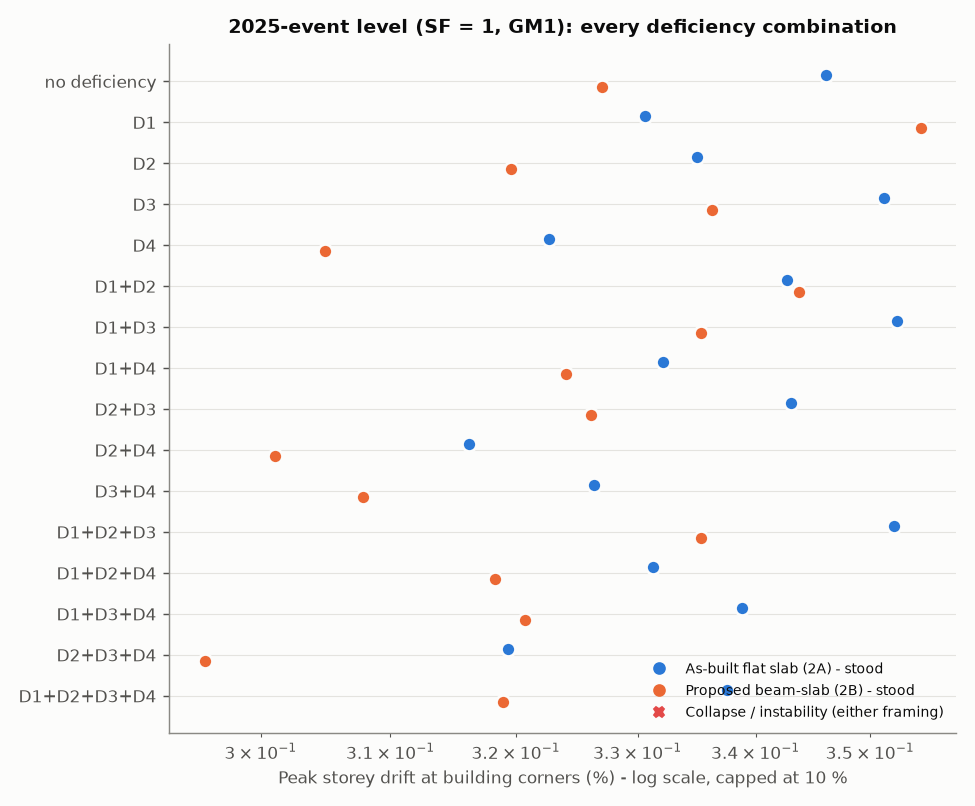
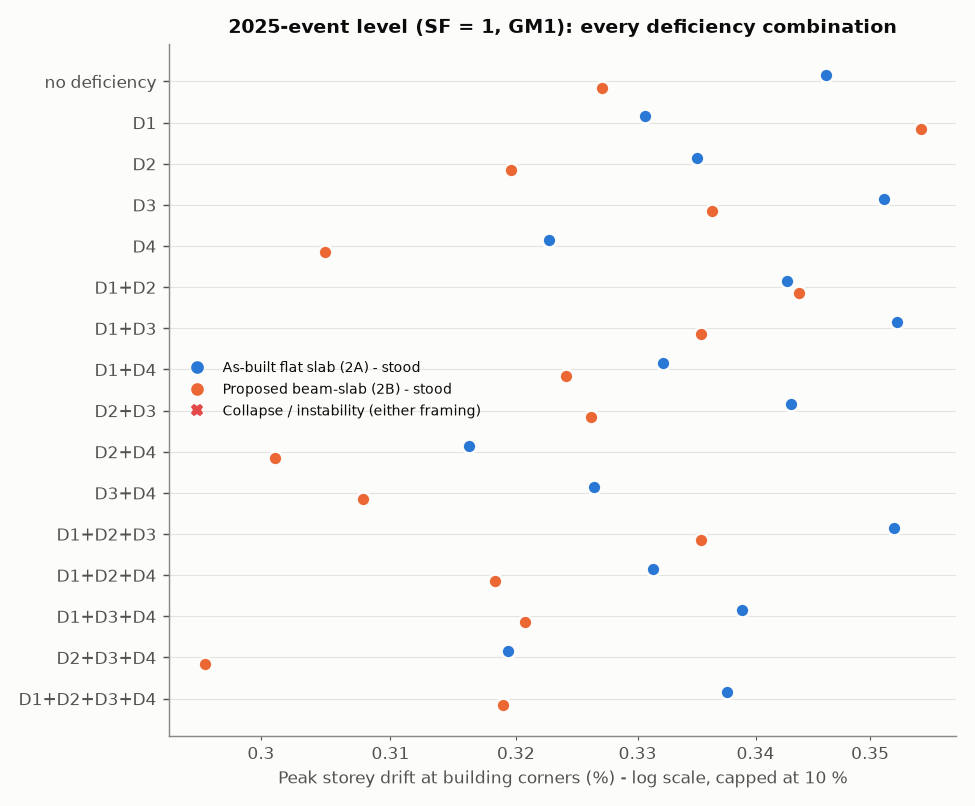
v3.1 postprocess: readable axes on fig03/fig11, IDA curves join only runs that stood
Claude-Session: https://claude.ai/code/session_01BC3mJNgnAnFkLpRTHoL5vQ

diff --git a/phase2_opensees_3.1/run_03_postprocess.py b/phase2_opensees_3.1/run_03_postprocess.py
@@ -17,6 +17,8 @@ import numpy as np
 from sao import config as C
 from sao import plotting as P
 from sao.runner import REMOVAL_SCENARIOS, PUSHDOWN_SCENARIOS
+import matplotlib
+import matplotlib.ticker
 import matplotlib.pyplot as plt
 
 RES = "results"
@@ -256,12 +258,14 @@ def fig_matrix(summ):
                         for n in names])
     ax.invert_yaxis()
     ax.set_xscale("log")
+    ax.xaxis.set_major_formatter(matplotlib.ticker.FormatStrFormatter("%g"))
+    ax.xaxis.set_minor_formatter(matplotlib.ticker.FormatStrFormatter("%g"))
     ax.set_xlabel("Peak storey drift at building corners (%) - log scale, capped at 10 %")
     ax.set_title("2025-event level (SF = 1, GM1): every deficiency combination")
     h = [plt.Line2D([], [], color=P.FLAT, marker="o", ls="", label="As-built flat slab (2A) - stood"),
          plt.Line2D([], [], color=P.BEAM, marker="o", ls="", label="Proposed beam-slab (2B) - stood"),
          plt.Line2D([], [], color="#e34948", marker="X", ls="", label="Collapse / instability (either framing)")]
-    ax.legend(handles=h, fontsize=8, loc="lower right")
+    ax.legend(handles=h, fontsize=8, loc="center left")
     fig.tight_layout()
     fig.savefig(os.path.join(FIG, "fig03_deficiency_matrix_event_level.png"))
     plt.close(fig)
@@ -358,7 +362,8 @@ def ida(nl):
             out[name] = dict(collapse_sf=col_sf, max_survived_sf=surv)
             rows.append([name, " ".join(f"{p[0]}:{'C' if p[2] else round(p[1] * 100, 2)}" for p in pts),
                          col_sf if col_sf else f">{max(sfs)}", surv if surv else "-"])
-            xs = [min(p[1] * 100, 10) for p in pts]
+            stood = [p for p in pts if not p[2]]          # the curve joins only the runs that stood
+            xs, sfs = [min(p[1] * 100, 10) for p in stood], [p[0] for p in stood]
             ax.plot(xs, sfs, color=P.SERIES[k], lw=1.6, marker="o", ms=4,
                     label="no deficiency" if d == "REF" else ("all 4" if d == "D1D2D3D4" else d))
             for p in pts:
@@ -580,13 +585,15 @@ def collapse_intensity(nl):
     ax.invert_yaxis()
     ax.set_xscale("log")
     ax.set_xticks([0.5, 1, 2, 3, 4.5, 6, 8])
+    ax.xaxis.set_minor_locator(matplotlib.ticker.NullLocator())
+    ax.xaxis.set_major_formatter(matplotlib.ticker.FormatStrFormatter("%g"))
     ax.set_xticklabels(["0.5", "1", "2", "3", "4.5", "6", "8"])
     ax.set_xlabel("Collapse intensity: scale factor on the 2025-event record GM1 (bar = bracket, dot = estimate)")
-    ax.set_title("How much stronger than the 2025 shaking must the record be to collapse the building?")
+    ax.set_title("How much stronger than the 2025 shaking must the record be\nto collapse the building?")
     h = [plt.Line2D([], [], color=P.FLAT, marker="o", lw=2, label="As-built flat slab (2A)"),
          plt.Line2D([], [], color=P.BEAM, marker="o", lw=2, label="Proposed beam-slab (2B)"),
          plt.Line2D([], [], color=P.INK2, marker=">", ls="", label="no collapse up to this SF")]
-    ax.legend(handles=h, fontsize=8, loc="lower right")
+    ax.legend(handles=h, fontsize=8, loc="center left")
     fig.tight_layout()
     fig.savefig(os.path.join(FIG, "fig11_collapse_intensity_all_combinations.png"))
     plt.close(fig)
